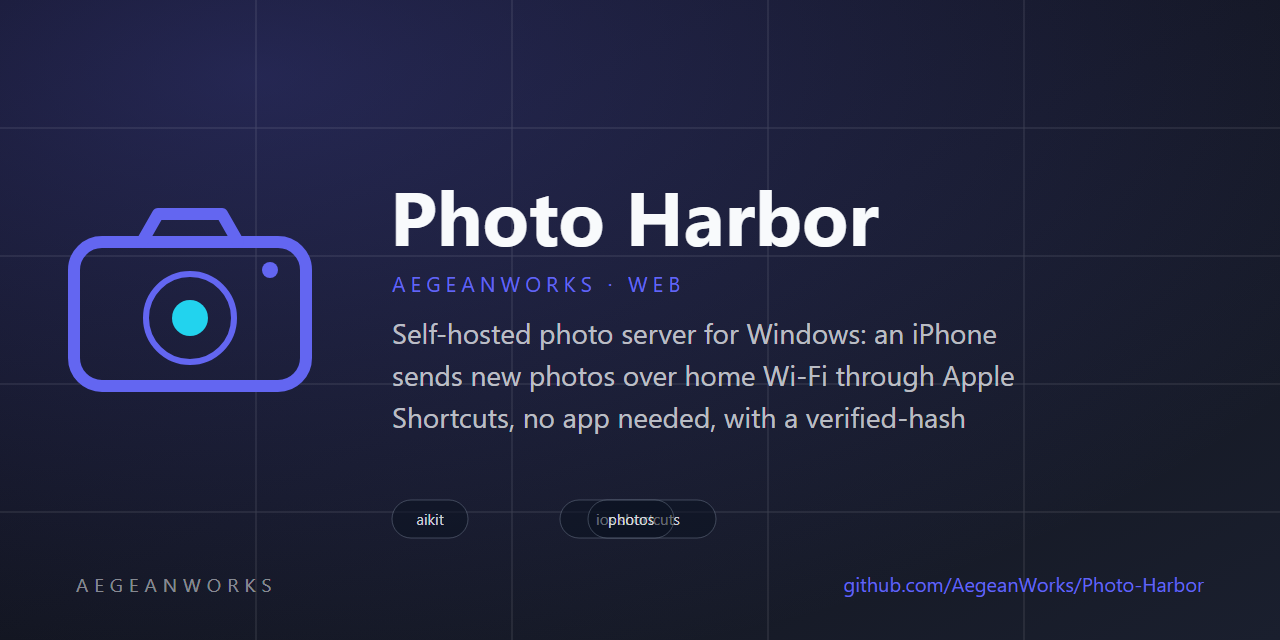
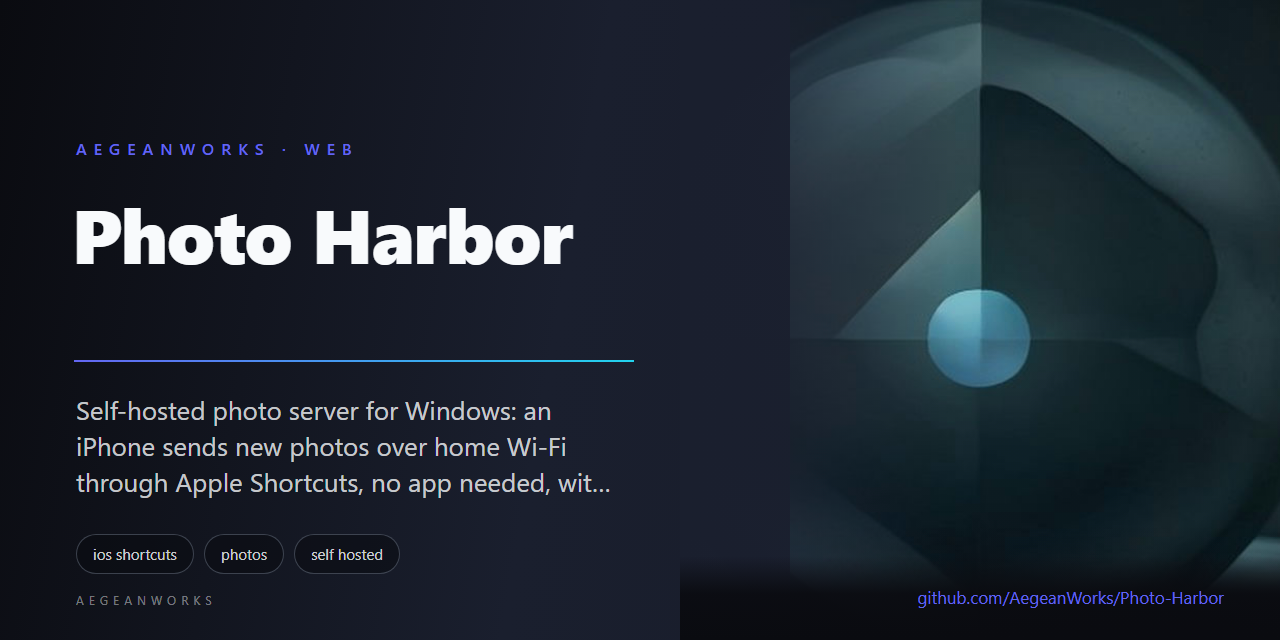
feat(brand): replace procedural marks with reviewed AI-art identities

diff --git a/README.md b/README.md
@@ -1,8 +1,8 @@
 # photo-harbor
 
 <!-- aegean:media:start -->
-<p align="center"><img src="assets/logo.svg" alt="Photo-Harbor logo" width="96" height="96"></p>
-<p align="center"><img src="assets/social-preview.svg" alt="Photo-Harbor social preview" width="100%"></p>
+<p align="center"><img src="assets/logo.png" alt="Photo-Harbor logo" width="96" height="96"></p>
+<p align="center"><img src="assets/social-preview.png" alt="Photo-Harbor social preview" width="100%"></p>
 <!-- aegean:media:end -->
 
 [![Built with AIKit](https://img.shields.io/badge/built%20with-AIKit-6f42c1)](https://github.com/AegeanWorks/AIKit)
